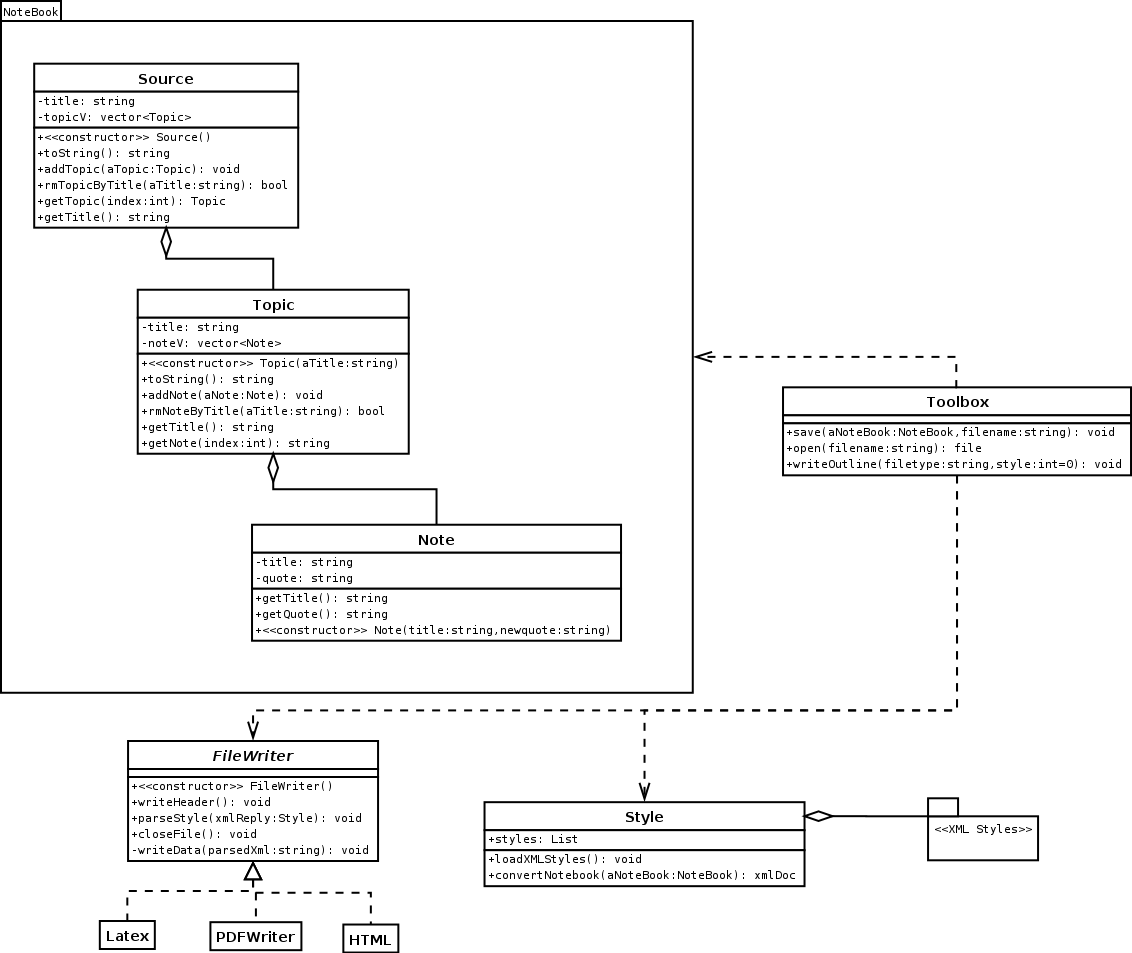
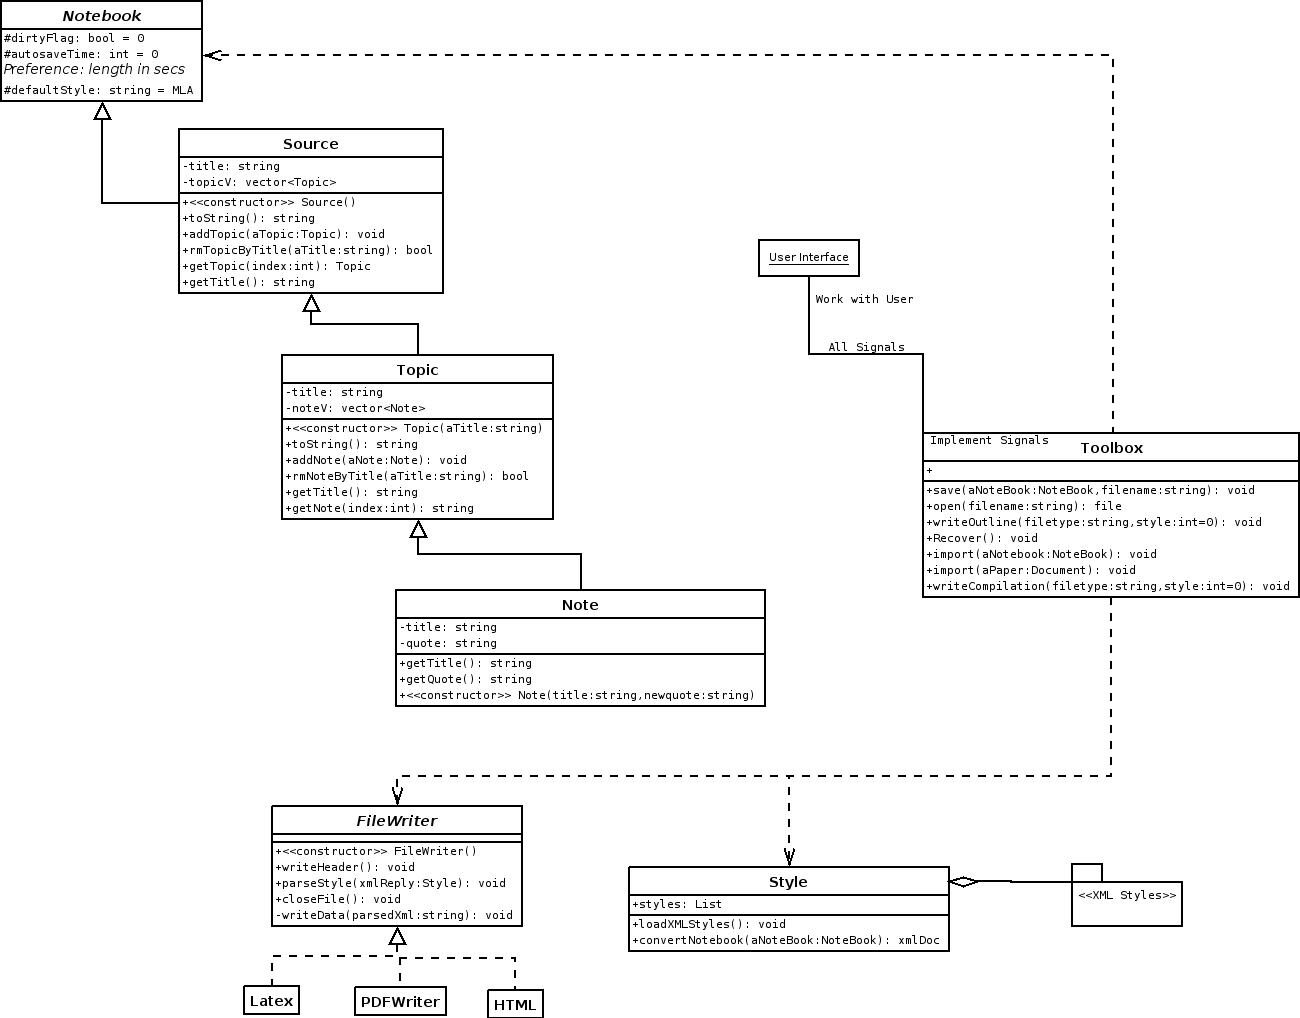
Appended to the UML Diagram Wrote Stubbs for some classes.

diff --git a/trunk/tools.cpp b/trunk/tools.cpp
@@ -1,15 +1,44 @@
 
-class toolkit {
+class Toolbox {
 	
 	public:
 		
-		toolkit{
+		Toolbox{
+			/**Check the recent documents list.
+			Prompt User to start a new Project if 
+			none found */
+			
 		}
 	
 		void save(NoteBook myBook, string filename){
 		}
 		
-		void {
+		file open(string filename){
+			
+		}
+		
+		void writeOutline(string filetype, int style){
+			
+		}
+		
+		void Recover(){
+			
+		}
+		
+		void import(NoteBook aNotebook){
+			
+		}
+		
+		void import(Document aPaper){
+			
+		}
+		
+		void writeCompilation(string filetype, int style){
+			
+		}
+		
+	private:
+		
 			
 		
 		

diff --git a/trunk/classes.cpp b/trunk/classes.cpp
@@ -155,6 +155,10 @@ class NoteBook{
 		NoteBook(aTitle){
 			title = aTitle;
 			sourceV.reserve(5);
+			dirtyFlag = 0;
+			autosaveTime = 0;
+			defaultStyle = "MLA";
+			
 		}
 		
 		void addSource(Source aSource){
@@ -190,7 +194,10 @@ class NoteBook{
 	private:
 		vector<Source> sourceV;
 		string title;
-	
+	protected:
+		bool dirtyFlag;
+		int autosaveTime;
+		string defaultStyle;
 	
 	};
 	

diff --git a/trunk/FileWriter.cpp b/trunk/FileWriter.cpp
@@ -1,0 +1,25 @@
+class FileWriter {
+	
+	public:
+		FileWriter(){
+		}
+		
+		void virtual writeHeader(){
+			
+		}
+		
+		void virtual parseStyle(){
+			
+		}
+		
+		void virtual closeFile(){
+			
+		}
+		
+		
+	private:
+		
+	protected:
+	
+};
+

diff --git a/trunk/Latex.cpp b/trunk/Latex.cpp
@@ -1,0 +1,1 @@
+class Latex extends FileWriter
